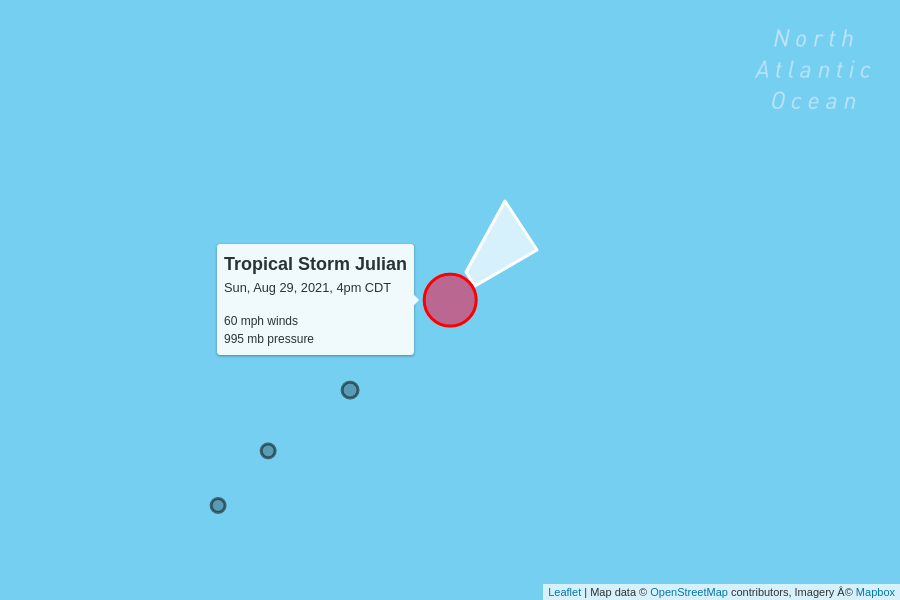
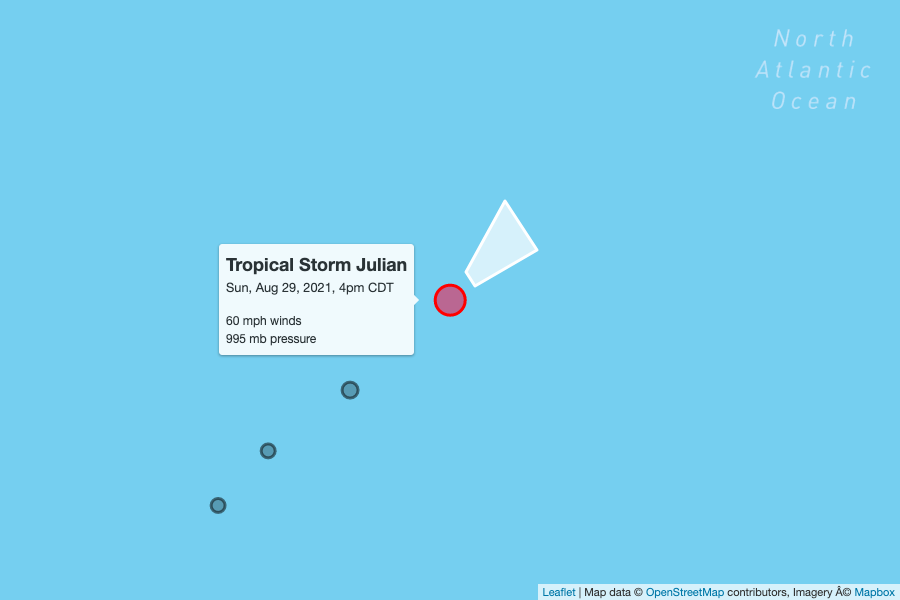
add wind extent circles to maps

Changed region(s): [[0.2178, 0.42, 0.4667, 0.57], [0.5911, 0.96, 0.9956, 1.0], [0.4667, 0.45, 0.5289, 0.54]]

diff --git a/src/map.html b/src/map.html
@@ -32,6 +32,7 @@
         tracks,
         updated,
         wind,
+        windExtent,
       }) => {
         const map = L.map("map", { zoomControl: false }).setView([lat, lon], 6);
 
@@ -71,11 +72,32 @@
           { color: "white", fillColor: "white", fillOpacity: 0.7, opacity: 1 }
         ).addTo(map);
 
+        if(windExtent.hurricane) {
+          const meters = {
+            hurricane: windExtent.hurricane * 1609.344,
+            tropical: windExtent.tropical*1609.344,
+          };
+
+          L.circle([lat,lon], {
+            color: 'black',
+            dashArray: "10 15",
+            fillOpacity: 0,
+            radius: meters.hurricane,
+          }).addTo(map);
+
+          L.circle([lat,lon], {
+            color: 'black',
+            dashArray: "2 20",
+            fillOpacity: 0,
+            radius: meters.tropical,
+          }).addTo(map);
+        }
+
         L.circle([lat, lon], {
           color: "red",
           fillColor: "#f03",
           fillOpacity: 0.5,
-          radius: 50000,
+          radius: 30000,
         })
           .bindTooltip(
             `<h2 style="margin-top:0;">${name}<p style="font-size:0.8rem;font-weight:normal;margin:0;">${
@@ -99,33 +121,6 @@
           }).addTo(map);
         });
       };
-
-      /*
-      draw({
-        name: "Hurricane Ira",
-        category: 1,
-        lat: 23,
-        lon: -84,
-        wind: 80,
-        pressure: 889,
-        direction: 320,
-        tracks: [
-          [16.9, -79.2],
-          [17.5, -79.5],
-          [18, -79.8],
-          [18, -80.1],
-          [18.6, -80.5],
-          [19.4, -80.9],
-          [20, -81.4],
-          [20.3, -81.7],
-          [20.7, -82.1],
-          [21.6, -82.7],
-          [22.1, -83.2],
-          [22.4, -83.5],
-        ],
-        updated: "Friday, August 27, 10pm CDT",
-      });
-      */
     </script>
   </body>
 </html>

diff --git a/src/map.js b/src/map.js
@@ -86,6 +86,29 @@ export default async () => {
 
     console.log(`Updating map for storm ${id}`);
 
+    const wind = {
+      hurricane: latest.hurricane_wind_extent_miles,
+      tropical: latest.tropical_storm_wind_extent_miles,
+    };
+
+    // Some intermediate hurricane updates don't include new wind extents. In
+    // those cases, fall back to the nearest update that does have extents.
+    if (
+      latest.classification.toLowerCase() === "hurricane" &&
+      wind.hurricane === 0
+    ) {
+      let previous = storm.pop();
+      while (
+        previous.classification.toLowerCase() === "hurricane" &&
+        previous.hurricane_wind_extent_miles === 0
+      ) {
+        previous = storm.pop();
+      }
+
+      wind.hurricane = previous.hurricane_wind_extent_miles;
+      wind.tropical = previous.tropical_storm_wind_extent_miles;
+    }
+
     const metadata = {
       name: `${latest.classification} ${latest.name}`,
       updated: dayjs(latest.timestamp)
@@ -97,6 +120,7 @@ export default async () => {
       wind: latest.maximum_sustained_wind_mph,
       pressure: latest.minimum_central_pressure_mb,
       direction: latest.movement_direction_degrees,
+      windExtent: wind,
       tracks: storm.map(({ latitude, longitude }) => [latitude, longitude]),
     };
 
